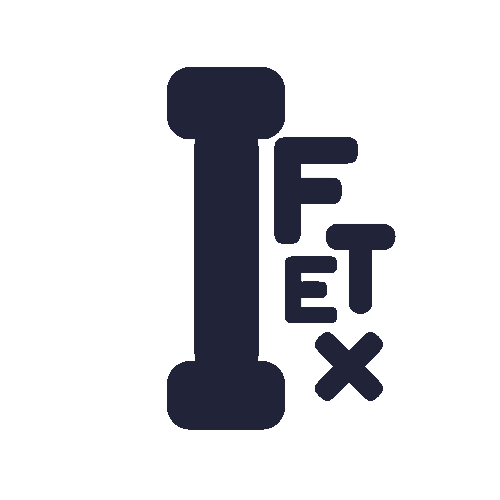
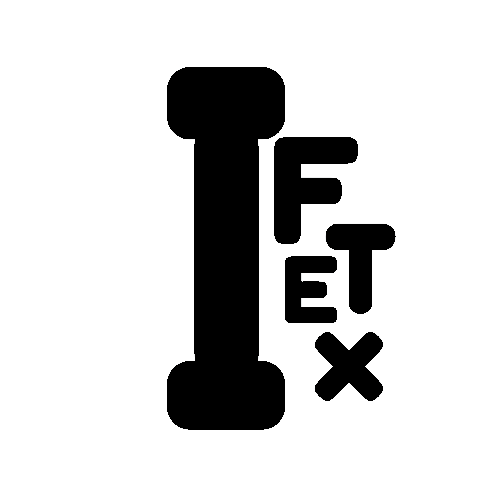
theme-sync

Changed region(s): [[0.33, 0.12, 0.81, 0.87]]

diff --git a/roles.js b/roles.js
@@ -27,6 +27,19 @@ function deleteRole() {
 typeRole();
 
 
+// Make all images undraggable
+function disableImageDrag() {
+    const allImages = document.querySelectorAll('img');
+    allImages.forEach(img => {
+        img.setAttribute('draggable', 'false');
+    });
+}
+
+// Run on page load
+window.addEventListener('DOMContentLoaded', () => {
+    disableImageDrag();
+});
+
 
 
  // Disable right-click on all images
@@ -37,4 +50,30 @@ typeRole();
     });
 
 
+
+//image switcher acc to theme 
+function updateThemeImages(theme) {
+    const allThemeImages = document.querySelectorAll('img[data-light][data-dark]');
+    allThemeImages.forEach(img => {
+        img.src = theme === 'dark' ? img.dataset.dark : img.dataset.light;
+        img.setAttribute('draggable', 'false'); // enforce non-draggable
+    });
+}
+
+// Apply saved theme and images on page load
+window.addEventListener('DOMContentLoaded', () => {
+    const savedTheme = localStorage.getItem('theme') || 'light';
+    document.documentElement.classList.toggle('dark', savedTheme === 'dark');
+    updateThemeImages(savedTheme);
+});
+
+// Theme toggle
+document.querySelector('#theme-toggle').addEventListener('click', () => {
+    const htmlTag = document.documentElement;
+    htmlTag.classList.toggle('dark');
+    const theme = htmlTag.classList.contains('dark') ? 'dark' : 'light';
+    
+    localStorage.setItem('theme', theme);
+    updateThemeImages(theme);
+});
 

diff --git a/index.html b/index.html
@@ -35,7 +35,7 @@
         <nav class="navbar">
             <div class="logo-container">
                 <a href="#" class="itlogo">
-                    <img src='Assets/Iftexmain.png' draggable="false" alt="iftexmain">
+                    <img id="logo" data-light="Assets/IftexDark.png" data-dark="Assets/Iftexmain.png" alt="Logo" draggable="false">
                 </a>
                 <h2>iftexworks</h2>
                 <button id="theme-toggle" class="theme-btn" aria-label="Toggle theme"> 
@@ -103,7 +103,7 @@
 
         <!-- About Section -->
         <section class="about" id="about" data-aos="fade-left" data-aos-easing="ease-out" data-aos-delay="250">
-            <img src="Assets/Iftex about svg.svg" draggable="false" alt="aboutme">
+            <img id="abtlogo" data-light="Assets/Iftexabout_dark.png" data-dark="Assets/Iftex about.png" alt="About Logo" draggable="false">
             <div class="about-content">
                 
                 <h2>Biography</h2>
